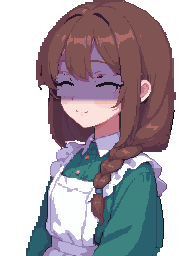
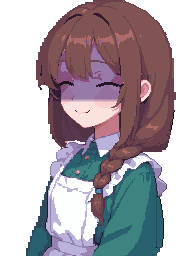
Mira's darkside and darkgrin (and shawl versions) remade: unshaded faces from her portrait's eyes, then the shared shadow tool

Changed region(s): [[0.2812, 0.2812, 0.4062, 0.4062], [0.5, 0.2812, 0.6562, 0.4062], [0.5, 0.2812, 0.5625, 0.3125]]

diff --git a/game/art/NOTES.md b/game/art/NOTES.md
@@ -1,5 +1,16 @@
 # 出圖筆記
 
+## 第五輪之後：蜜拉 `darkside`、`darkgrin` 重新生成
+
+照 README「第五輪之後的決定」：先做沒有陰影的臉，再用 `tools/mira-shadow.py` 蓋陰影。四張（含 `shawl_darkside`、`shawl_darkgrin`）都換掉了，`dark`、`darkflat`、`smile` 沒動。
+
+- **先試了模型**：從 `portrait.png` 出發，只對眼睛局部重繪，強度 0.3、每張三個種子。`darkside` 的眼睛畫得順，但多了一條紅色下眼線，眼角有碎點，換回她的色盤後虹膜的淺綠不見了、還多了黑點，和一般那張的虹膜不一樣了；`darkgrin` 每張都多畫了一條下眼線和橘色、綠色的碎點，正好是規格說不能留的。所以兩張都沒有用模型的結果，改用下面的程式做法（照規格「眼睛照一般那張、不能有碎點」那條決定）。
+- **`darkside`（沒有陰影的臉）**：只把虹膜整塊往左移（左眼 2 格、右眼 3 格）。虹膜只取她虹膜的那幾個顏色連成的那一塊（含裡面的高光），所以不會帶到睫毛或眼眶；移開的地方填一般那張同一列的眼白顏色（上面淡紫、下面白），移進睫毛或眼角輪廓的部分就被蓋住，睫毛和眼形一格都沒動。嘴是一般那張的淡淡微笑。
+- **`darkgrin`（沒有陰影的臉）**：整個眼睛（眼白、虹膜、下眼線、上睫毛尖端那幾根）換成旁邊最近的膚色，不是一塊平塗的顏色，所以看不出補過；再畫一條往上拱的連續弧線（她睫毛最深的兩個顏色、中段 3 格粗），外眼角往外翹。嘴用 `smile` 的嘴，兩邊嘴角再往上一格。最後把剩下的幾顆下眼線尾端換成膚色。放大 8 倍看過，沒有黑圈、斷線、碎點、殘留的虹膜或眼白。
+- **陰影**：用 `tools/mira-shadow.py` 的 `shade()`，和其他幾張同一套顏色和範圍。只有一個地方不同：它會把固定的「虹膜框」裡的亮點換成深青綠（給睜眼的臉拿掉高光用的）。閉眼的臉框裡全是皮膚，會變成兩塊深色三角形；虹膜往左移後框會蓋到眼白。所以 `darkgrin` 呼叫時把虹膜框設成空的，`darkside` 設成移動後虹膜實際的範圍（左 61–68 × 77–90、右 96–106 × 79–92）。程式本身沒有改。
+- `shawl` 版：把沒有陰影的臉 x 40–130、y 60–130 那一塊貼到 `portrait-shawl.png`，再用同樣的方式蓋陰影。
+- 色數：這個陰影程式不做色盤對應，所以腹黑臉會超過 48 色（雲端做的 `dark` 也是 89 色），照它原樣，沒有另外壓色。
+
 ## 總結：第五輪（照 `ref/` 的參考圖修）
 
 README「第五輪」三項都做完，每項做完就提交並推上 `ccr-62025098-zk9541`，沒有跳過的。`ref/` 的兩張圖只拿來看，沒有餵給模型，也沒有把那兩個角色的任何部分畫進來。第四輪做對的地方沒有動。各項做法寫在下面「第五輪」那一節。
